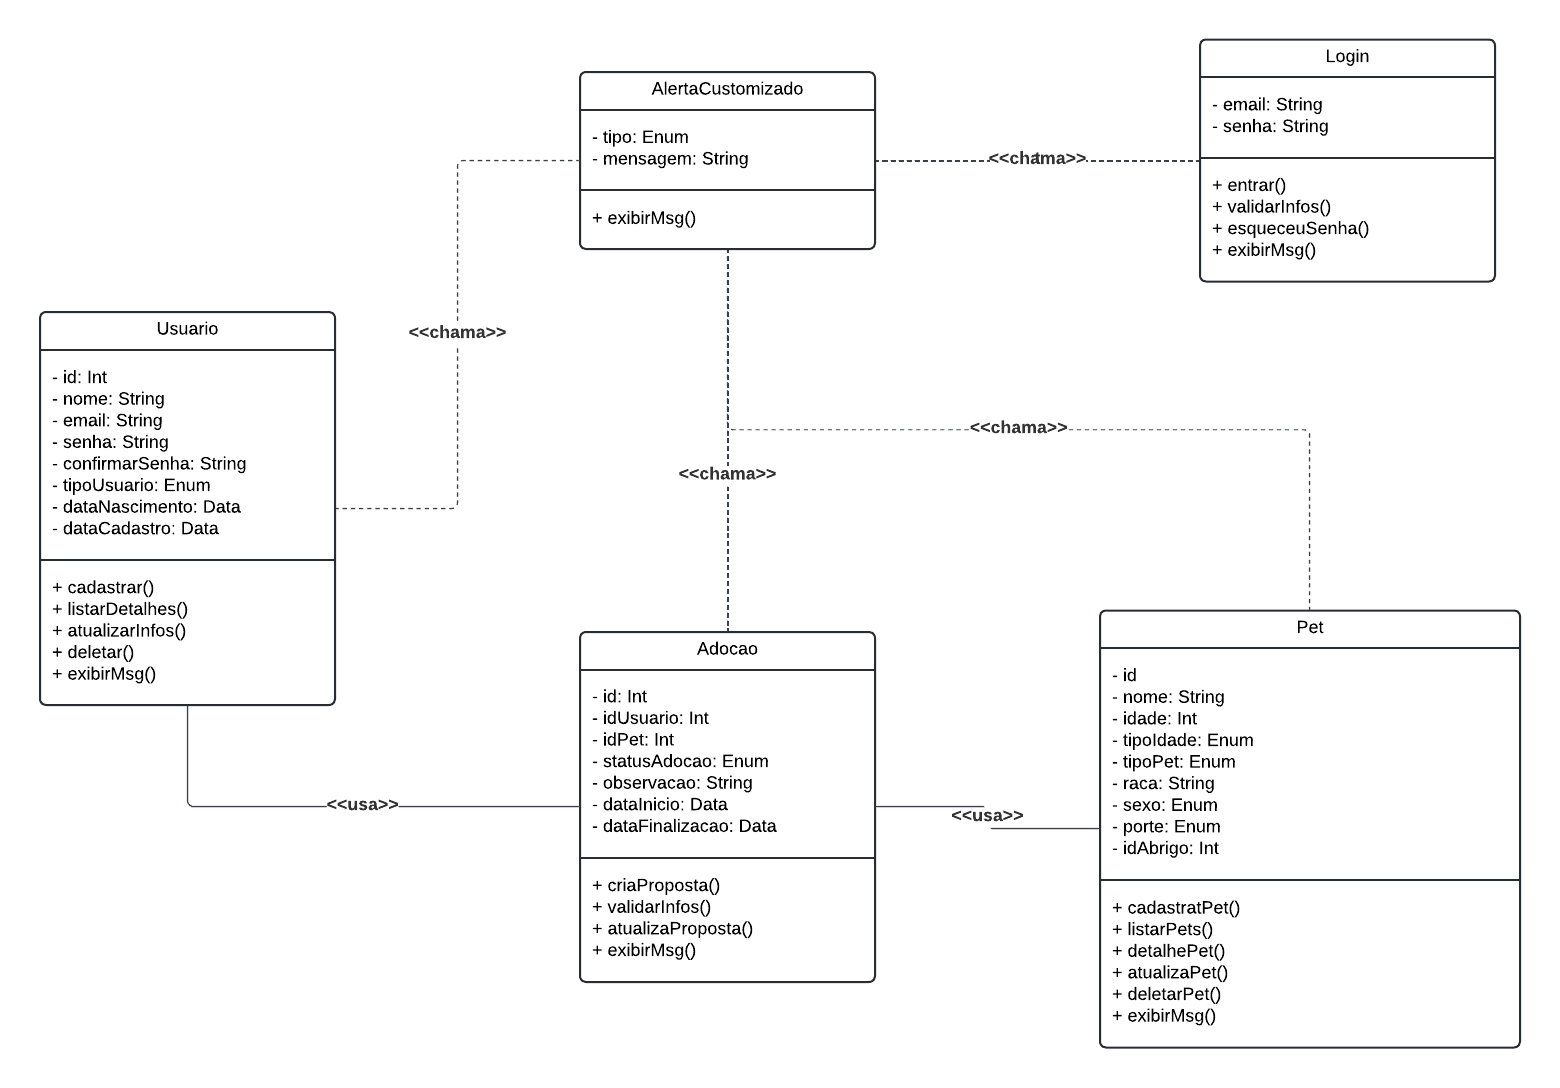
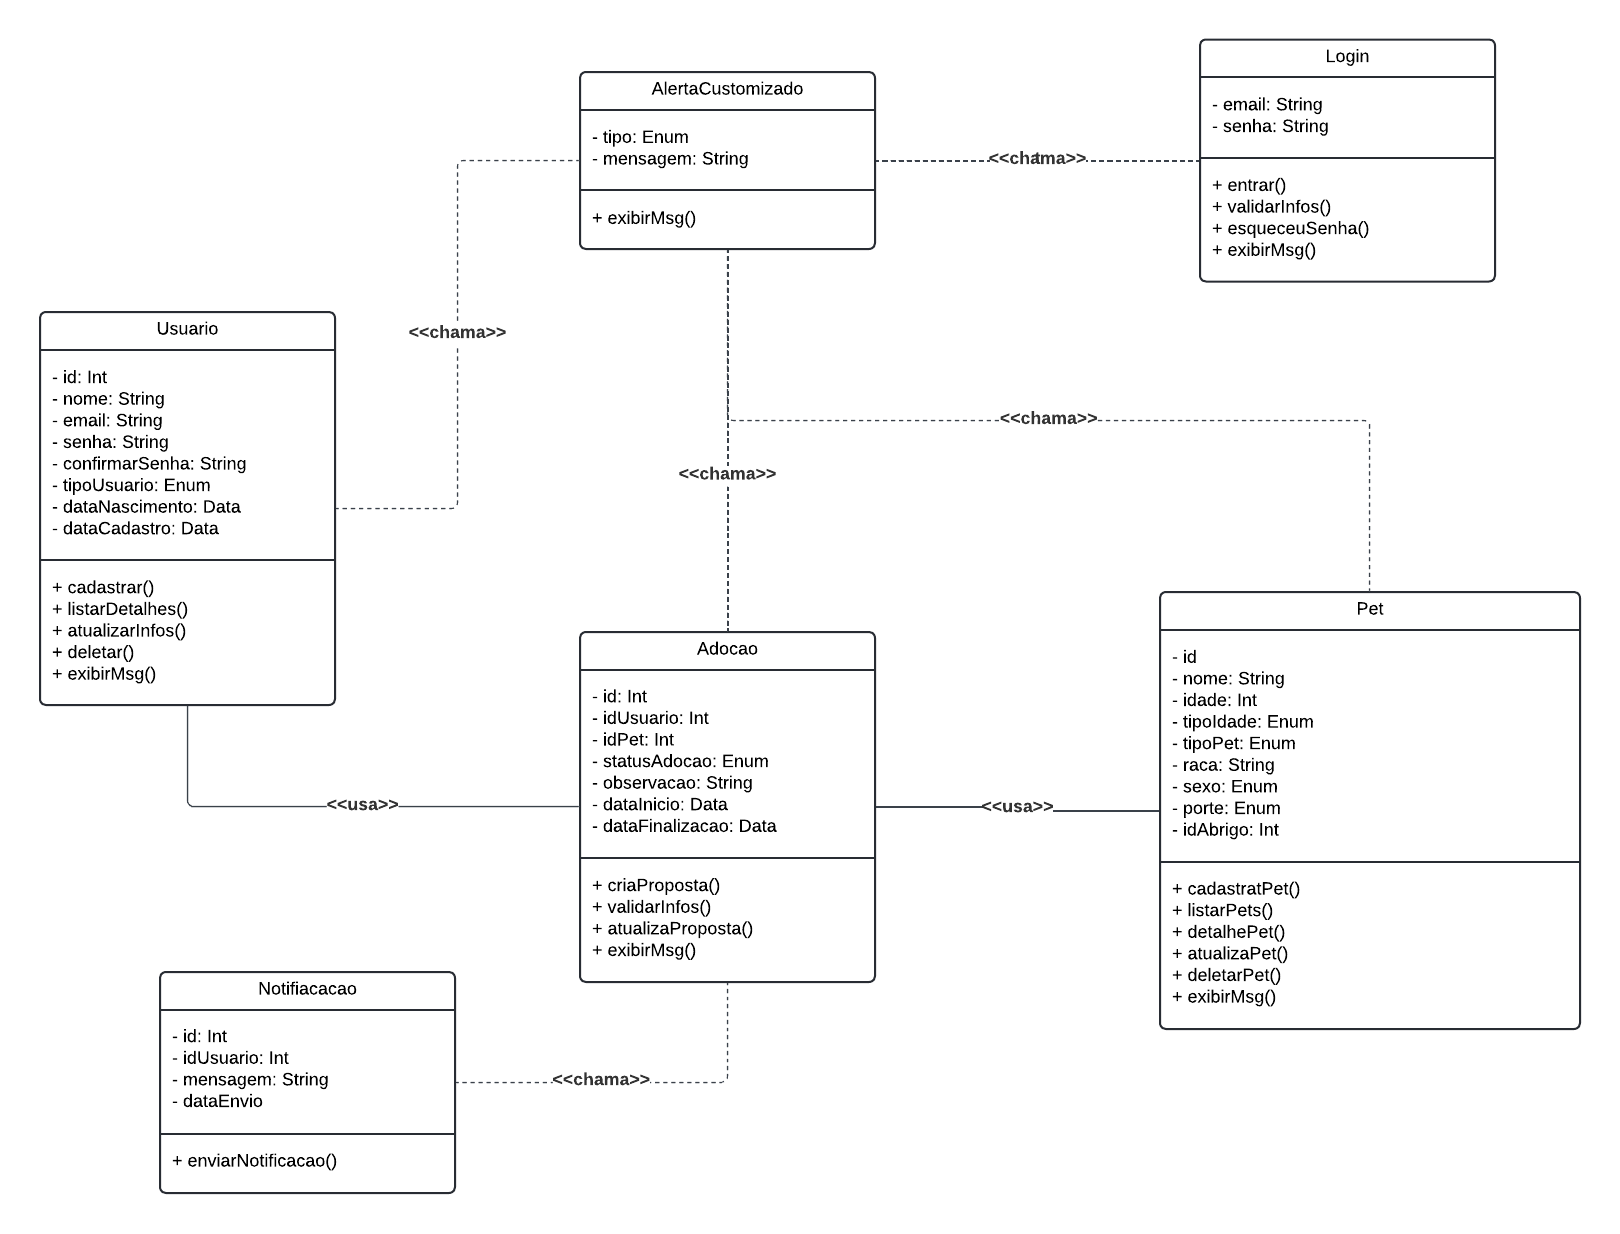
alteraçoes no diagrama

diff --git a/docs/05-Arquitetura da Solução.md b/docs/05-Arquitetura da Solução.md
@@ -1,5 +1,7 @@
 # Arquitetura da Solução
 
+## Diagrama de Classes
+
 ### Classe `Usuario`
 Esta classe representa os usuários do sistema, que podem ser adotantes ou abrigos.
 
@@ -45,13 +47,32 @@ Esta classe representa os Pets disponíveis para adoção.
 Esta classe representa o interesse de um usuário em adotar um pet.
 
 - **Atributos:**
-  - `id`: Identificador único do interesse.
+  - `id`: Identificador único do processo de adoção.
   - `usuario_id`: Identificador do usuário que demonstrou interesse.
-  - `pet_id`: Identificador do pet pelo qual o interesse foi demonstrado.
-  - `data`: Data em que o interesse foi registrado.
+  - `idPet`: Identificador do pet pelo qual foi iniciado o processo de adoção.
+  - `statusAdocao`: Indica o status da adoção que pode ser, iniciado, em andamento, finalizado e cancelado.
+  - `dataInicio`: Data em que o processo foi iniciado.
+  - `dataFinalizacao`: Data em que o processo foi finalizado.
 
 - **Métodos:**
-  - `demonstrar()`: Método para registrar o interesse de um usuário em um pet.
+  - `criarProposta()`: Método para iniciar o processo de adoção.
+  - `validarInfos`: Método para validar as informações disponibilizadas.
+  - `atualizaProposta`: Método para atualizar informações na proposta iniciada.
+  - `exibeMsg()`: Método para exibir as mensagens de acordo com a ação do usuário.
+
+### Classe `Login`
+Esta classe representa o login do usuário.
+
+- **Atributos:**
+  - `email`: Email do usuário.
+  - `senha`: Senha do usuário.
+
+- **Métodos:**
+  - `entrar()`: Método para iniciar o processo de login.
+  - `validaInfos()`: Método para validar as informações fornecidas no login.
+  - `esqueceuSenha()`: Método para iniciar o processo de recuperação da senha.
+  - `exibeMsg()`: Método para exibir as mensagens de acordo com a ação do usuário.
+
 
 ### Classe `Notificacao`
 Esta classe representa as notificações enviadas aos usuários.
@@ -60,34 +81,42 @@ Esta classe representa as notificações enviadas aos usuários.
   - `id`: Identificador único da notificação.
   - `usuario_id`: Identificador do usuário que receberá a notificação.
   - `mensagem`: Conteúdo da notificação.
-  - `data`: Data em que a notificação foi enviada.
+  - `dataEnvio`: Data em que a notificação foi enviada.
 
 - **Métodos:**
-  - `enviar()`: Método para enviar uma notificação ao usuário.
+  - `enviarNotificacao()`: Método para enviar uma notificação ao usuário.
  
-## Relacionamentos
+### Classe `AlertaCustomizado`
+Esta classe representa as notificações enviadas aos usuários.
 
-1. **Usuario abriga Animal**
-   - Tipo: 1:N (um usuário pode abrigar vários animais)
+- **Atributos:**
+  - `tipo`: 
+  - `usuario_id`: Identificador do usuário que receberá a notificação.
+  - `mensagem`: Conteúdo da notificação.
+  - `dataEnvio`: Data em que a notificação foi enviada.
 
-2. **Usuario demonstra Interesse**
-   - Tipo: 1:N (um usuário pode ter vários interesses em animais)
+- **Métodos:**
+  - `enviarNotificacao()`: Método para enviar uma notificação ao usuário.
 
-3. **Usuario recebe Notificacao**
-   - Tipo: 1:N (um usuário pode receber várias notificações)
-
-4. **Animal interessa Interesse**
-   - Tipo: 1:N (um animal pode ser de interesse para vários usuários)
-
-
-## Diagrama de Classes
 
 ![image info](./img/diagrama_classe.png)
 
 ## Modelo ER (Projeto Conceitual)
 O Modelo ER representa através de um diagrama como as entidades (coisas, objetos) se relacionam entre si na aplicação interativa.
 
-Sugestão de ferramentas para geração deste artefato: LucidChart e Draw.io.
+
+### Relacionamentos:
+1. **Tabela Usuario** 
+  - Representa os usuários da plataforma. A chave primária é o id, que é único para cada usuário.
+1. **Tabela Pet** 
+  - Relaciona-se com a tabela Usuario através da chave estrangeira idAbrigo, que referencia o abrigo responsável pelo pet. Quando um abrigo é deletado, os pets relacionados também são deletados devido à regra ON DELETE CASCADE.
+1. **Tabela Adocao** 
+  - Representa o processo de adoção. Contém as chaves estrangeiras usuario_id (para o usuário que está adotando) e idPet (para o pet sendo adotado). As regras de integridade referencial garantem que se um pet ou usuário for deletado, o processo de adoção relacionado também será.
+1. **Tabela Notificacao** 
+  - Relaciona-se com Usuario pela chave estrangeira usuario_id, que referencia o usuário que recebe a notificação.
+
+
+![image info](./img/ER.png)
 
 A referência abaixo irá auxiliá-lo na geração do artefato “Modelo ER”.
 
